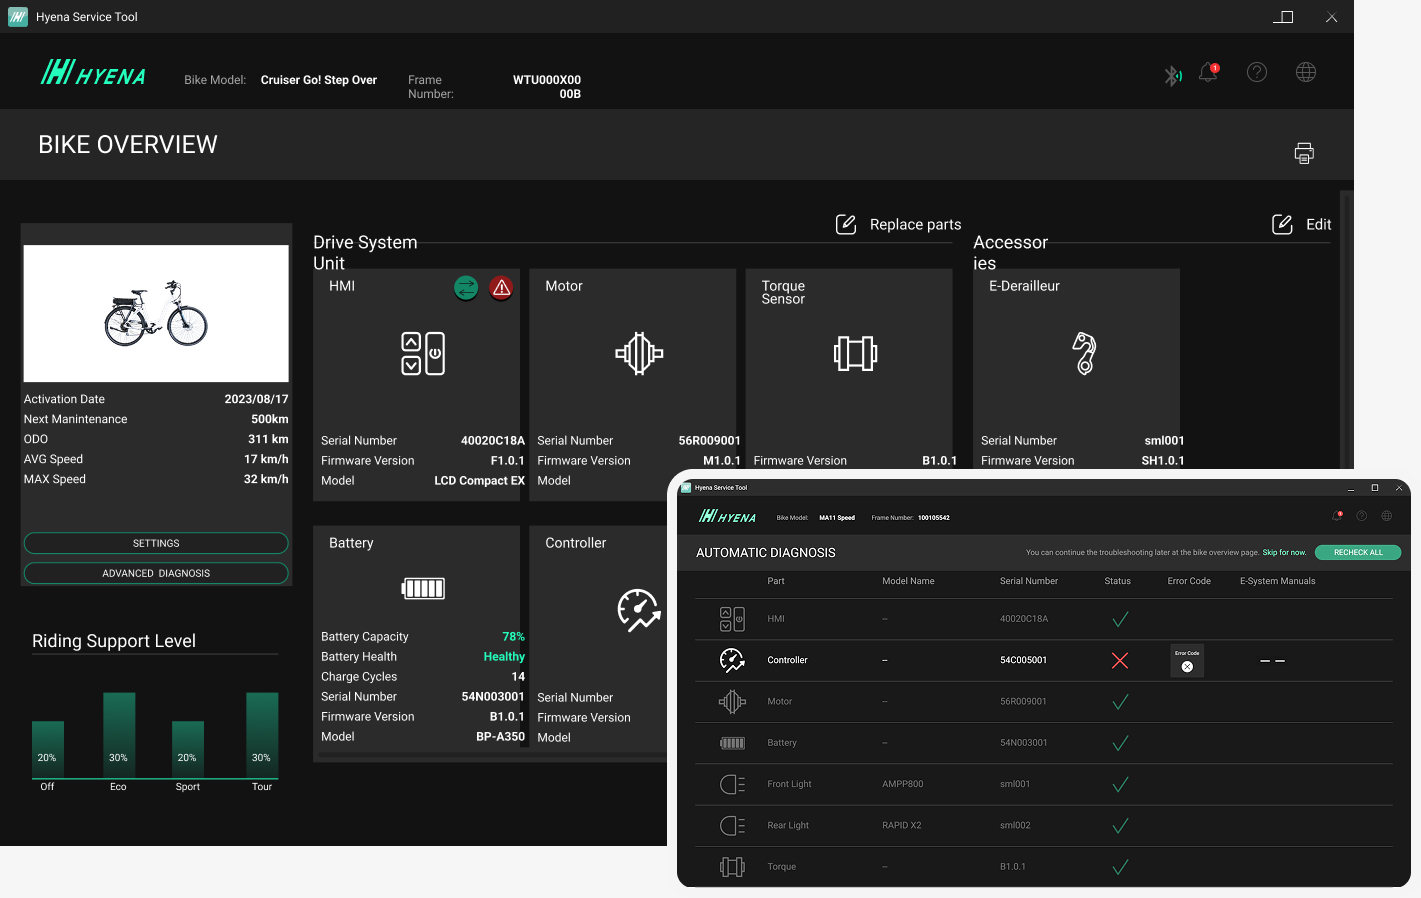
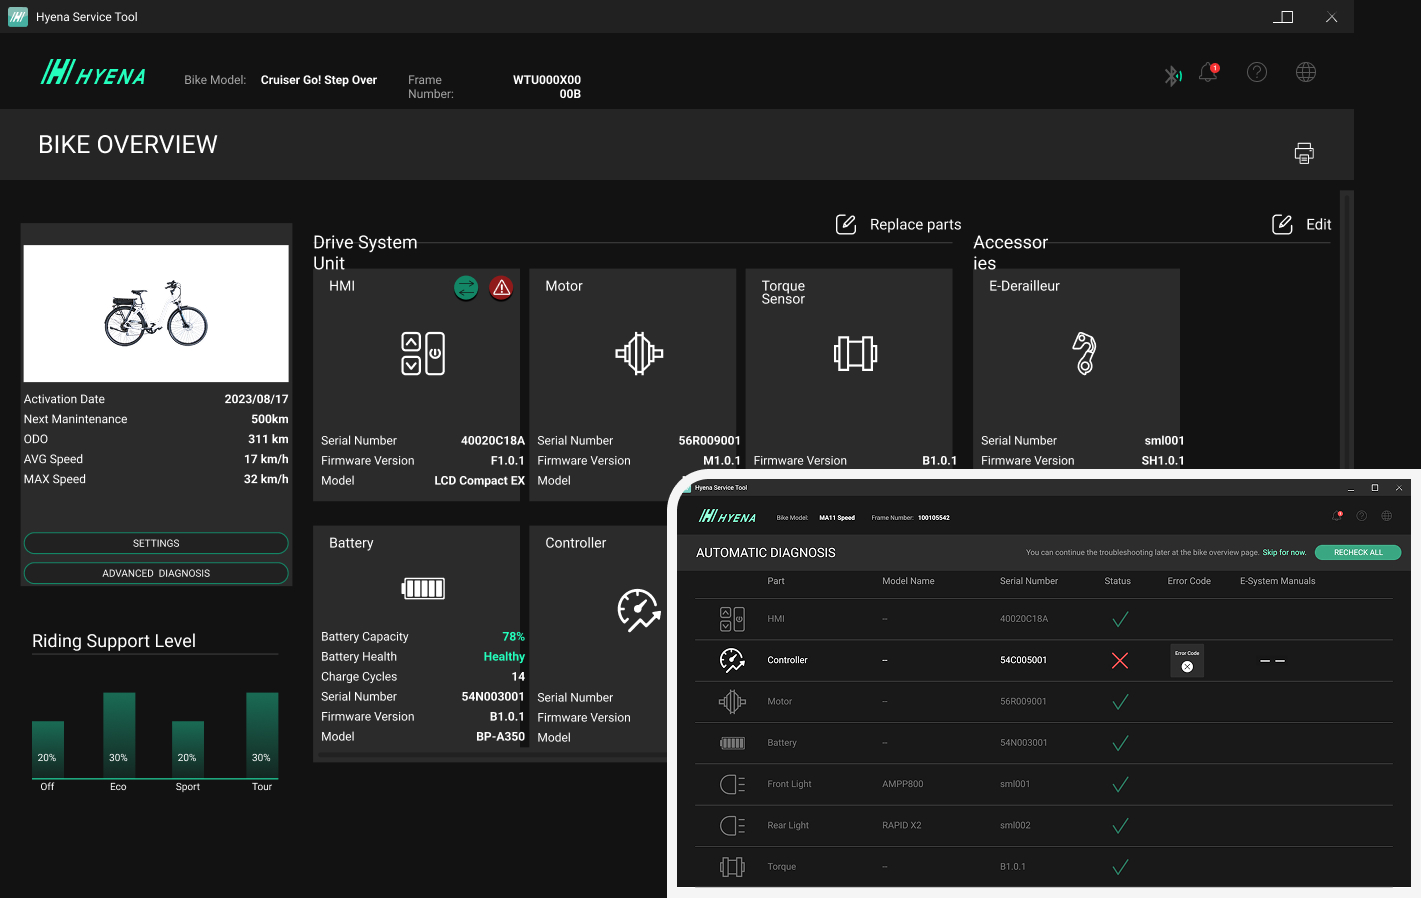
Replace legacy comparison image, equal-height comparison media, revise overview pain point

Changed region(s): [[0.9289, 0.0, 1.0, 0.5301], [0.0, 0.9354, 0.4954, 1.0], [0.4645, 0.5301, 0.4954, 0.5612]]

diff --git a/src/components/CaseMedia.tsx b/src/components/CaseMedia.tsx
@@ -7,12 +7,13 @@ export function CaseMedia({ media, eager = false, paused = false, controls = tru
 }) {
   const dialog = useRef<HTMLDialogElement>(null);
   const [failed, setFailed] = useState(false);
+  const [ratio, setRatio] = useState<number>();
   if (!media) return null;
   const style = { '--media-fit': media.fit ?? 'contain', '--media-scale': media.scale ?? 1 } as CSSProperties;
-  return <figure className="case-media" data-fit={media.fit ?? 'contain'} data-surface={media.surface} style={style}>
+  return <figure className="case-media" data-fit={media.fit ?? 'contain'} style={{ ...style, ...(ratio ? { '--ratio': ratio } : {}) } as CSSProperties}>
     {media.type === 'image' && (failed
       ? <div className="image-fallback">{media.alt}</div>
-      : <img src={media.src} alt={media.alt} role="button" tabIndex={0} aria-label={`放大圖片：${media.alt}`} onClick={() => dialog.current?.showModal()} onKeyDown={event => { if (event.key === 'Enter' || event.key === ' ') { event.preventDefault(); dialog.current?.showModal(); } }} loading={eager ? 'eager' : 'lazy'} onError={() => setFailed(true)} />)}
+      : <img src={media.src} alt={media.alt} role="button" tabIndex={0} aria-label={`放大圖片：${media.alt}`} onClick={() => dialog.current?.showModal()} onKeyDown={event => { if (event.key === 'Enter' || event.key === ' ') { event.preventDefault(); dialog.current?.showModal(); } }} loading={eager ? 'eager' : 'lazy'} onLoad={event => setRatio(event.currentTarget.naturalWidth / event.currentTarget.naturalHeight)} onError={() => setFailed(true)} />)}
     {media.type === 'video' && <ManagedVideo src={media.src} label={media.alt} poster={media.poster} eager={eager} groupPaused={paused} controls={controls} />}
     {media.type === 'youtube' && <YouTubeEmbed id={media.id} title={media.alt} start={media.start} />}
     {media.type === 'image' && <dialog ref={dialog} className="media-dialog" onKeyDown={event => event.stopPropagation()} onClick={event => { if (event.target === event.currentTarget) dialog.current?.close(); }}>

diff --git a/src/data/cases/dealer-portal.ts b/src/data/cases/dealer-portal.ts
@@ -60,8 +60,7 @@ export const dealerPortal: CaseStudyData = {
           "src": "/assets/projects/dealer-portal/2026-09-24_legacy-overview-diagnosis.jpg",
           "alt": "舊版 Bike Overview 以部件小卡顯示序號與韌體資訊，右下疊放逐項檢查的 Automatic Diagnosis 畫面",
           "caption": "之前：以部件資訊為主的總覽（左）及關卡式診斷（右下）",
-          "fit": "contain",
-          "surface": "dark"
+          "fit": "contain"
         },
         {
           "type": "image",
@@ -81,8 +80,8 @@ export const dealerPortal: CaseStudyData = {
           "body": "「我想先修復馬達，但出現了另一個關卡異常」技師無法依現場需求，自主決定處理的優先順序。"
         },
         {
-          "title": "總覽頁幫不上維修：看不到異常零件在哪，也找不到工具",
-          "body": "即使走完關卡進入總覽頁，技師看到的也只是一排零件圖示與序號，不清楚異常零件的外觀和在車上的位置；診斷工具與維修資源不在第一眼的資訊裡，也不顯眼，技師仍得自己摸索下一步。"
+          "title": "總覽頁資訊無助於維修，技師得花時間自己找",
+          "body": "即使走完關卡進入總覽頁，技師看到的是一排零件圖示與序號，不清楚零件的實際外觀與安裝位置；診斷工具與技術文件也不在第一眼可見的資訊裡，技師得另外查找，拖慢維修進度。"
         }
       ]
     }

diff --git a/src/styles.css b/src/styles.css
@@ -318,13 +318,10 @@ button.glass:not(:disabled):active, a.glass:active { transform: scale(.95); }
 .media-dialog > img { display: block; width: 100%; height: auto; }
 .media-dialog > p { margin-top: 12px; }
 
-@media (min-width: 768px) { .media-list--comparison { grid-template-columns: repeat(2, minmax(0, 1fr)); align-items: start; } }
+/* Comparison images share one height: each column grows by its image's aspect ratio. */
+@media (min-width: 768px) { .media-list--comparison { display: flex; align-items: flex-start; } .media-list--comparison > .case-media { flex: var(--ratio, 1) 1 0; } }
 
 /* Walkthrough cards keep the reference's square media area; contained UI screenshots are inset with a soft shadow instead of being cropped. */
 .step-visual .case-media[data-fit="contain"] { padding: 21px; display: flex; align-items: center; justify-content: center; }
 .step-visual .case-media[data-fit="contain"] > img { width: auto; max-width: 100%; height: auto; max-height: 100%; border-radius: 8px; object-fit: contain; box-shadow: 0 1px 3px rgb(0 0 0 / 4%), 0 6px 20px rgb(0 0 0 / 5%); }
 @media (max-width: 767px) { .step-visual .case-media[data-fit="contain"] { padding: 12px; } }
-
-/* Opt-in dark container for screenshots whose own edges are light or uneven. */
-.case-media[data-surface="dark"] > img { background: #2b2b2b; padding: 16px; }
-@media (max-width: 767px) { .case-media[data-surface="dark"] > img { padding: 10px; } }

diff --git a/src/data/schema.ts b/src/data/schema.ts
@@ -3,7 +3,7 @@ export type Media = (
   | { type: 'image'; src: string; alt: string }
   | { type: 'video'; src: string; alt: string; poster?: string }
   | { type: 'youtube'; id: string; alt: string; start?: number }
-) & { caption?: string; fit?: 'contain' | 'cover'; scale?: number; /** Optional container fill behind the media. */ surface?: 'dark' };
+) & { caption?: string; fit?: 'contain' | 'cover'; scale?: number; };
 export interface Link { label: string; href: string }
 export interface Chapter { title: string; paragraphs?: string[]; closingParagraphs?: string[]; media?: Media[]; mediaLayout?: 'stack' | 'comparison' }
 export type OptionalChapter<T> = { content: T; omitted?: never } | { omitted: string; content?: never };

diff --git a/AGENTS.md b/AGENTS.md
@@ -36,7 +36,7 @@ After discovery, author the Chinese case directly in `src/data/cases/<slug>.ts` 
 
 Hero title/subtitle spacing is 20px on desktop and 16px on mobile. Snapshot metadata uses four equal desktop columns filling the content width; labels use muted text and values use heading color, with Team on its own full-width row. Problem Framing images follow the complete pain-point list, never appear inside individual pain points.
 
-Section labels use 14px / 600 weight, below the 700-weight headings, in sentence case as written (no uppercase transform or letter-spacing). Case-media captions are at least 14px. Chapter media can opt into `mediaLayout: comparison` for two desktop columns and a mobile stack; Dealer Portal Problem Framing uses this layout. Any image can opt into `surface: "dark"` for a dark-grey (#2B2B2B) padded container, used for light-edged legacy composites.
+Section labels use 14px / 600 weight, below the 700-weight headings, in sentence case as written (no uppercase transform or letter-spacing). Case-media captions are at least 14px. Chapter media can opt into `mediaLayout: comparison` for two desktop columns and a mobile stack; Dealer Portal Problem Framing uses this layout. Comparison images render at the same height, with column widths following each image's aspect ratio, so before/after screenshots read as equal size.
 
 Product Background (`snapshot.context`, label `Product background`) renders after Snapshot and before Problem Framing: title, a short narrative, then `metrics` as the same cards as Impact evidence (three columns desktop, one column with a tighter 10px gap below 768px). Metrics describe product scale, not design results.
 
